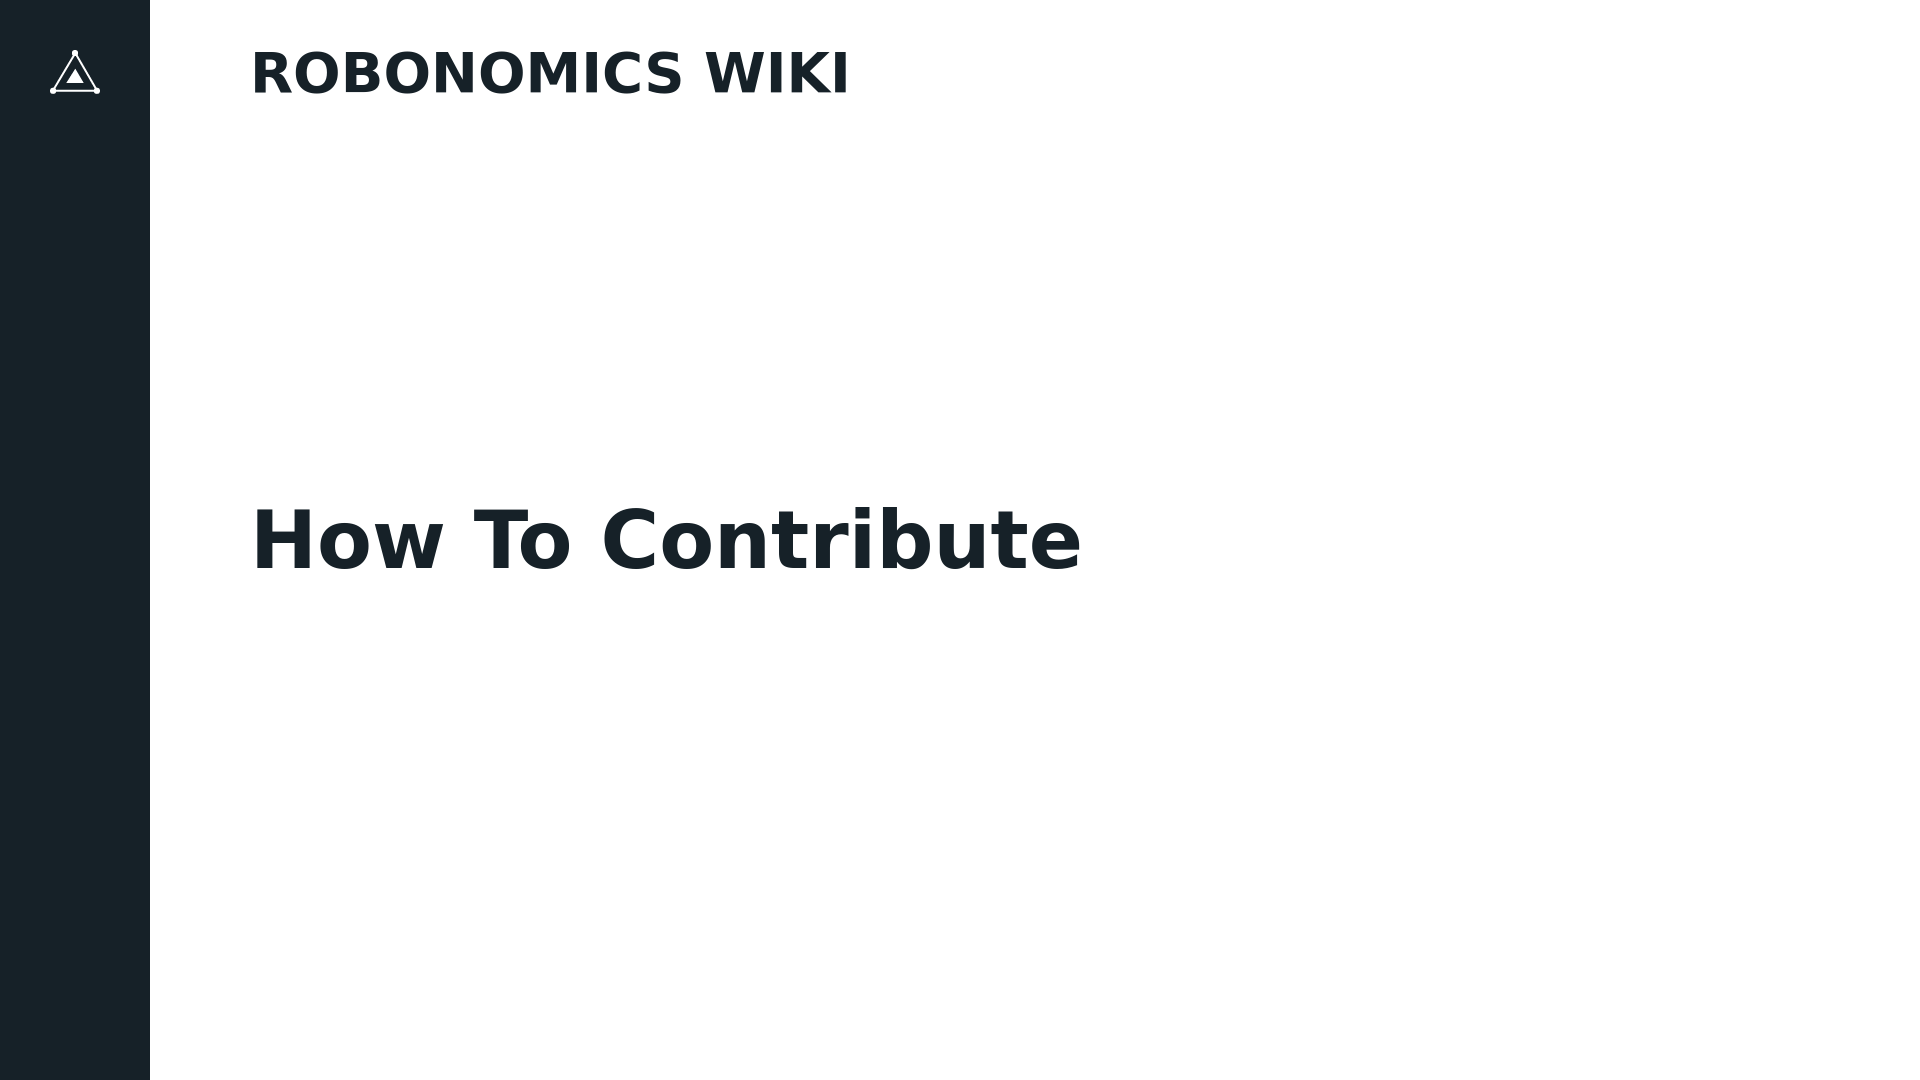
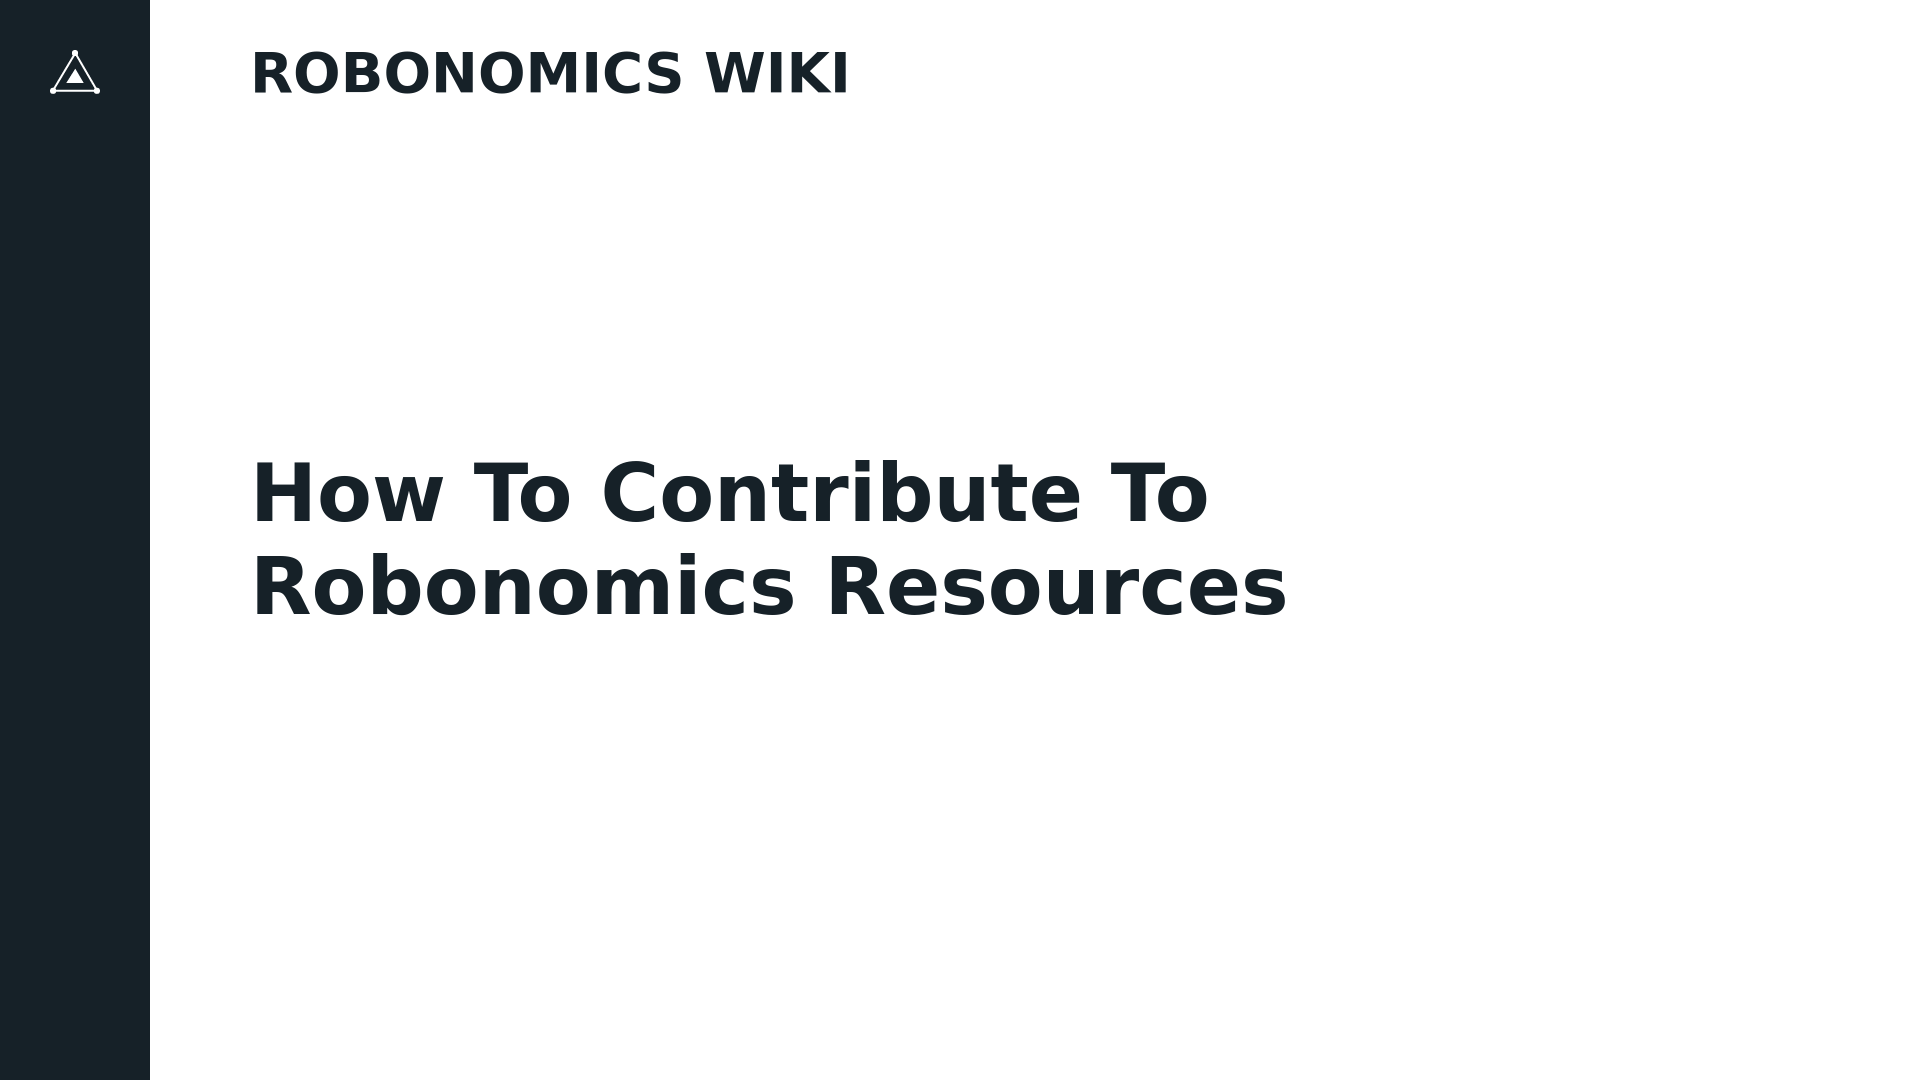
Added How to edit and Contributing to Maintain section

Changed region(s): [[0.125, 0.4278, 0.6875, 0.5806]]

diff --git a/docs/contributing.md b/docs/contributing.md
@@ -1,22 +1,20 @@
 ---
-title: How to contribute
+title: How to Contribute to Robonomics Resources
 
 contributors: [positivecrash]
 ---
 
-Robonomics network is an open-source project built by core maintainers from Airalab and contributors. We want to make it easy for anyone to contribute. You may contribute to core, suggest changes, improve documentation or write a blog post. Please, read some rules and suggestions for contributing.
+Robonomics Network is an open-source project and we want to make it easy for anyone to contribute. You may create articles, suggest changes, improve documentation or run tests. If you want to contribute, please, open a new issue or create a pull request in the same repository.
 
-## Main Airalab repositories 
+## Main Robonomics Repositories 
 
-- [aira](https://github.com/airalab/aira) - AIRA client for Robonomics network. 
-- [robonomics_comm](https://github.com/airalab/robonomics_comm) - Robonomics communication stack
-- [robonomics_contracts](https://github.com/airalab/robonomics_contracts) - smart contracts of Robonomics network
+- [Robonomics Wiki](https://github.com/airalab/robonomics-wiki) — Main wiki project
+- [Robonomics Main](https://github.com/airalab/robonomics.network) —  Official main website of Robonomics Network 
+- [Robonomics.cloud](https://github.com/airalab/robonomics.cloud) — Home for Robonomics Web Services
+- [Robonomics Dapp](https://github.com/airalab/dapp.robonomics.network) — Official dapp
+- [Robonomics Academy](https://github.com/airalab/robonomics.academy) — Official website of Robonomics Academy
 
-## Bugs and proposals for improvements
-
-If you find a bug in AIRA client, Robonomics repositories, this documentation or would like to propose an improvement, please, open a new issue in the same repository, that you want to contribute.
-
-### Rules for reporting
+### Rules for Reporting
 
 When opening a new issue, do not forget about a few basic rules for reporting:
 
@@ -26,12 +24,12 @@ When opening a new issue, do not forget about a few basic rules for reporting:
 
 3. Be sure to include title and clear description, as much relevant information as possible.
 
-4. Please prefix your issue with one of the following: `[BUG]`, `[PROPOSAL]`, `[QUESTION]`.
+4. Please, prefix your issue with one of the following: `[BUG]`, `[PROPOSAL]`, `[QUESTION]`.
 
 
-## Pull requests
+## Pull Requests
 
-Any Airalab repository or this documentation may be subject to pull requests or changes by contributors where you believe you have something valuable to add or change. Please, do not forget about basic rules for contributors.
+Any Robonomics repository may be subject to pull requests or changes by contributors, where you believe you have something valuable to add or change. Please, do not forget about basic rules for contributors.
 
 ### Rules for contributing
 

diff --git a/docs/edit-wiki.md b/docs/edit-wiki.md
@@ -1,15 +1,15 @@
 ---
-title: How to edit WIKI 
+title: How to Edit Wiki 
 contributors: [positivecrash]
 description: Ways to help us improve our wiki
 ---
 
-**Robonomics WIKI is open source. Any corrections are welcome: fixing errors, typos, some unclear or outdated information, translation into any language. You'll need a [GitHub](https://github.com/) account.**
+**Robonomics Wiki is open source. Any corrections are welcome: fixing errors, typos, some unclear or outdated information, translation into any language. You'll need a [GitHub](https://github.com/) account.**
 
 
 ## How to edit
 
-If you need to edit docs of Robonomics WIKI, please, follow these steps
+If you need to edit docs of Robonomics Wiki, please, follow these steps
 
 Make sure, you have [Node.js](https://nodejs.org/en/download/package-manager/) and [Gridsome](https://gridsome.org/docs/#1-install-gridsome-cli-tool) installed.
 
@@ -55,7 +55,7 @@ gridsome develop-m1
 ## Components
 
 ### Asciinema
-Robonomics WIKI has support for Asciinema. To insert Asciinema, please, follow these instructions:
+Robonomics Wiki has support for Asciinema. To insert Asciinema, please, follow these instructions:
 * Import component after frontmatter block `import Asciinema from '~/components/Asciinema.vue'`
 * Insert as separate paragraph `<Asciinema vid="WCFcx8C6M8e52UKDNei1xZloU"/>`, where is vid is ID of specific asciicast
 
@@ -110,7 +110,7 @@ $ ls -l /dev/serial/by-id
 
 
 ### Frontmatter
-Docs in Robonomics WIKI contain frontmatter block. It must be at the top of the Markdown file, and must take the form of valid YAML set between triple-dashed lines. Between the triple-dashed lines, you can set or edit folowing options:
+Docs in Robonomics Wiki contain frontmatter block. It must be at the top of the Markdown file, and must take the form of valid YAML set between triple-dashed lines. Between the triple-dashed lines, you can set or edit folowing options:
 
 ```YAML
 ---
@@ -457,7 +457,7 @@ However, if you need an autoplay you must use special component:
 
 ## How to edit sidebar navigation
 
-If you need to edit sidebar navigation of Robonomics WIKI, please, follow these steps:
+If you need to edit sidebar navigation of Robonomics Wiki, please, follow these steps:
 
 * Edit file `/data/sidebar_docs.yaml`.
 
